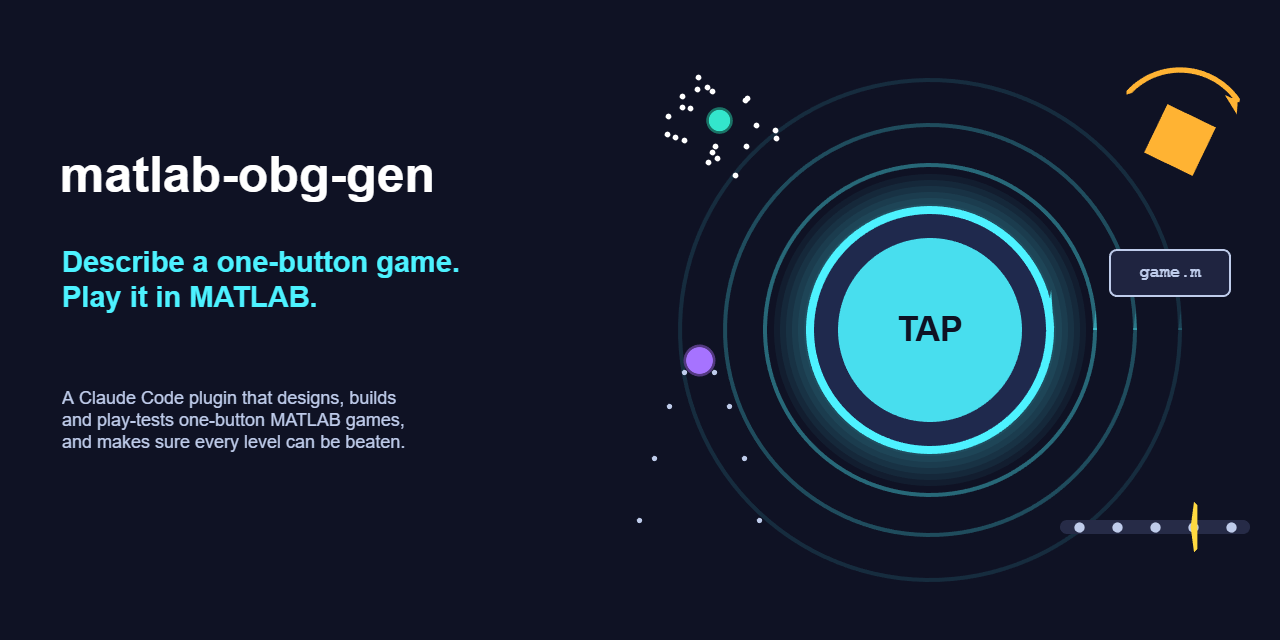
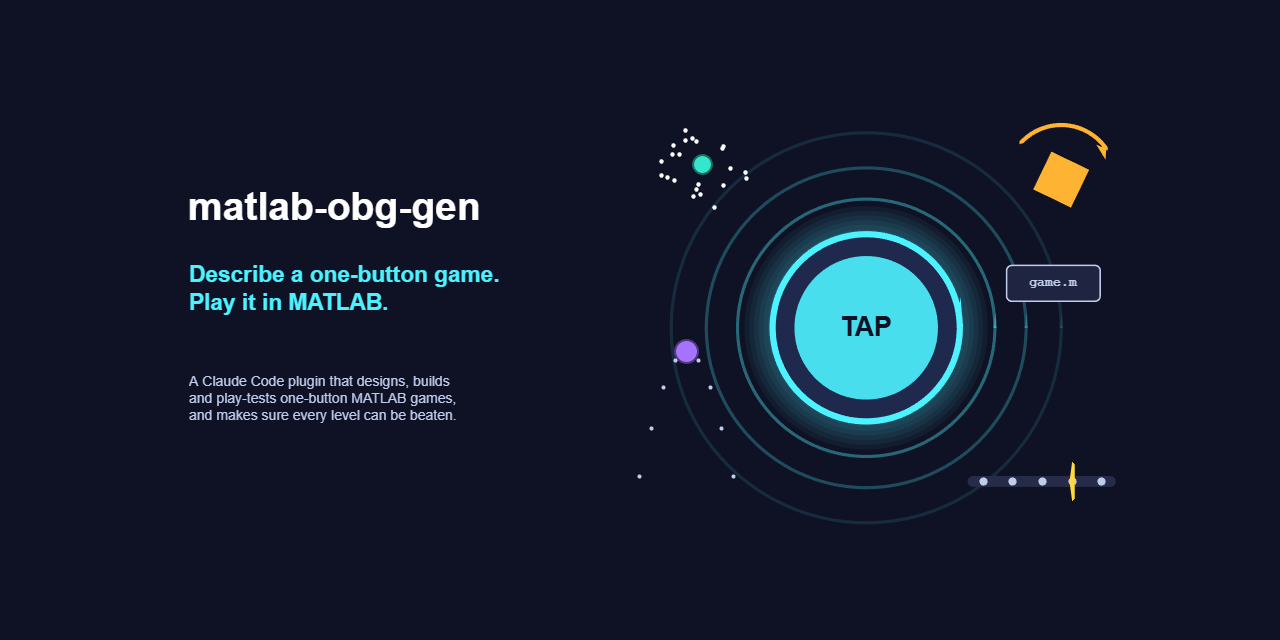
Social preview: keep content in a centred safe area so link-preview crops only lose background

diff --git a/docs/makeSocialPreview.m b/docs/makeSocialPreview.m
@@ -9,10 +9,10 @@ violet = [.65 .45 1]; teal = [.2 .9 .8]; gold = [1 .85 .25]; grey = [.75 .8 .92]
 f = uifigure('Visible', 'off', 'Units', 'pixels', 'Position', [50 50 1280 640]);
 ax = uiaxes(f, 'Units', 'pixels');
 ax.InnerPosition = [1 1 1280 640];   % the plot area itself, not its outer box
-ax.XLim = [0 1280]; ax.YLim = [0 640]; ax.YDir = 'reverse';
+ax.YDir = 'reverse';
 ax.XTick = []; ax.YTick = []; ax.XAxis.Visible = 'off'; ax.YAxis.Visible = 'off';
 ax.Toolbar.Visible = 'off'; disableDefaultInteractivity(ax); hold(ax, 'on');
-patch(ax, [0 1280 1280 0], [0 0 640 640], navy, 'EdgeColor', 'none');
+patch(ax, [-2000 3000 3000 -2000], [-2000 -2000 3000 3000], navy, 'EdgeColor', 'none');
 
 % the button, just tapped: glow, ripple rings, the cap
 c = 930 + 330i; t = linspace(0, 2*pi, 120);
@@ -64,7 +64,14 @@ text(ax, 62, 280, sprintf('Describe a one-button game.\nPlay it in MATLAB.'), ..
 text(ax, 62, 420, sprintf(['A Claude Code plugin that designs, builds\n' ...
     'and play-tests one-button MATLAB games,\nand makes sure every level can be beaten.']), ...
     'FontSize', 18, 'Color', grey, 'VerticalAlignment', 'middle');
-ax.XLim = [0 1280]; ax.YLim = [0 640];   % drawing can re-fit the limits: lock them again
+% Link previews (Teams, Slack, ...) crop the image to their own card shape,
+% so shrink the whole picture by sh about the centre: everything that
+% matters sits in the middle ~1000x500 and only background reaches the edges.
+sh = .78;
+for o = findobj(ax, '-property', 'FontSize')', o.FontSize = o.FontSize*sh; end
+for o = findobj(ax, 'Type', 'line')', o.MarkerSize = o.MarkerSize*sh; end
+for o = findobj(ax, '-property', 'LineWidth')', o.LineWidth = o.LineWidth*sh; end
+ax.XLim = 640 + [-640 640]/sh; ax.YLim = 320 + [-320 320]/sh;   % lock the zoomed-out limits
 ax.XLimMode = 'manual'; ax.YLimMode = 'manual';
 drawnow;
 
